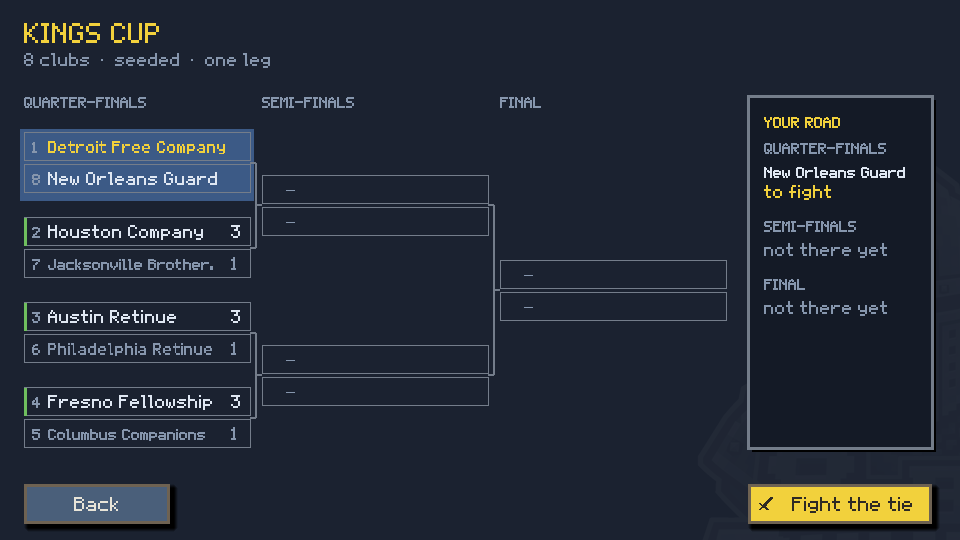
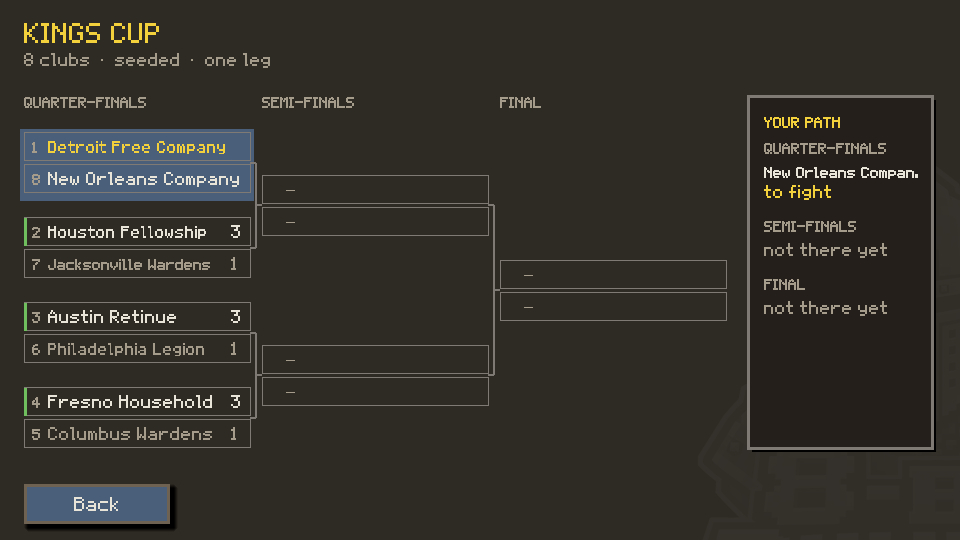
Review fixes after the restructure: fighter page shows the banked points; Upgrades camp and total read true; armorer list shows yours first with distinct names; Training labels captains and says each fighter; standings names clip at draw size; town popup opens on your state; Trade +CC; three new kit
Claude-Session: https://claude.ai/code/session_01PvoGJDmZvsa8VzcYhFpLtv

diff --git a/docs/REGISTER.md b/docs/REGISTER.md
@@ -9124,3 +9124,4 @@ Six independent auditors graded the game C− (project doc `grading-28-sep.md`).
 | 30.56 | **Scouting removed; every club in four stars** (Pete, 1 Oct, answering the scouting test going red: the title half swung 0.85 → 1.60 → 0.15 seasons across unrelated changes once a title was a top-four knockout: *"Remove scouting and just give each team a 4 category 5star system. Then if you click them or prior to fights, fight cards, you'll see info like the star ratings, overalls and W/L."*). | **locked** — a stranger's ceiling is shown exact (`Season.potential_range`; `ClubOffice.scout_width`, `SCOUT_BLIND`, `ceiling_range`, `tools/probe_scouting.gd` and the balance check that reading the range pays all gone; the Scout captain still finds more names); `TeamCard`: Strength / Base / Skill / Gas, each the average of the club's five on the 1-99 scale, ten points a half star; shown on a card when a league-table row is tapped (division, town, rating, place and record), at the foot of the calendar's fixture popup, and under both clubs at the walk-out (which also now reads a cup opponent's record and name, not the league's empty fixture). test_calendar holds the stars. |
 | 30.57 | **Team-first restructure, screens** (Pete, 1 Oct: "Let's make it more centric about building the team"; mockups approved at v6, canvas "Team-First Restructure Mockups"). Tabs Club/Squad/Armorer/Upgrades/Finances read as five unrelated rooms and the career sat behind a header button. | **locked** — tabs FIGHT · TEAM · MAINTENANCE · UPGRADES · MANAGEMENT. Header: one Menu (Resume, Settings, Save / Load, Quit); the coach's name and level on the header line. Fight: fixture card is Home/Away, rating, odds and the gate; Coming up is Home/Away and who; table key gone. Team: Starters / Bench / Reserve (4 places, an empty one is "+ Hire free agent"), columns FIGHTER · KIT · DEAL · OVR · POT, the tapped man in a panel bottom right; Club record, Free agents, Training (popup: Light/Normal/Hard per captain + the paid session; both left the Staff room). Upgrades: title, cap as a gauge with the bill in the fill, a "?" per row, "N CC/Year" per row and a Maintenance total; Insurance row; Arena panel with the Arena button (the old "The ground"). Management: Finances (In/Out/Total → the full books), Staff (captains, armorer → Staff), You (level, XP, five skills, Spend points, Playbook, Team edit). New career: You → Your team (kit, mark, home town as popups; 24 kits, 16 marks) → Difficulty. `tools/shot_restructure.gd`. |
 | 30.58 | **Team-first restructure, rules** (Pete, 1 Oct). | **locked** — **Coach**: named, background (Ex-fighter/Promoter/Marshal = a free point in Training/Business/Tactics), levels from wins (10), draws (4), finishes (60/40/25/15), cups (40…4), promotion (30); a level is a point; five skills of five stars: Training +5% XP, Motivation −10% of a loss's morale hit, Tactics +1 call at 3★ and 5★, Business +5% gate/bar/prizes, Recruiting −5% fees. Reputation, job offers, posts and the boyhood club deleted (`jobs.gd`, take_job); the dilemma deck reads the coach's level. Old saves: asked for the coach once; wins and draws count as XP. **Armorer**: hired, 1–5★ = the best metal he makes and keeps (Rust, Mild, Hardened, Stainless, Titanium — the old four renamed, Titanium new: wear ×0.50, 24 CC); repairs only up to his metal; fixes 1 CC cheaper; wage 0/2/4/7/12 CC a summer (unpaid → the free one-star hand); 4★ State and up, 5★ National only; old saves get one star above their best kit (max 4). **Federation** is insurance only (Regional asks 2); Federation screen deleted; kit and marshal certificates refunded. **Bus** is eight, always; old saves' bought places refunded. **A new club starts with eight**; reserve capped at 4 (books 12); CPU clubs carry 4 reserves on the original 14 kits / 9 marks. |
+| 30.59 | **Blind review after the restructure** (1 Oct, two fresh reviewers, 40 shots: 6.5 and 6.4 against 7.3 on 30 Sep; project doc `screen-review-1-oct.md`). Ten real findings. | **locked** — fighter page says the banked count ("3 POINTS TO SPEND"); Upgrades' training row reads the ground's own camp ("camp +0", the number its button moves) and the total says "arena included"; the armorer list shows yours first and five people with no shared first or last name; Training rows say CAPTAIN and the session "+N XP each fighter"; standings names clip at the size they are drawn; the town popup opens on your own state; Trade says "+N CC"; three near-duplicate new kits replaced (magenta, sky, olive); coach +/− 46×44; Sign is grey until the man has a name. |
